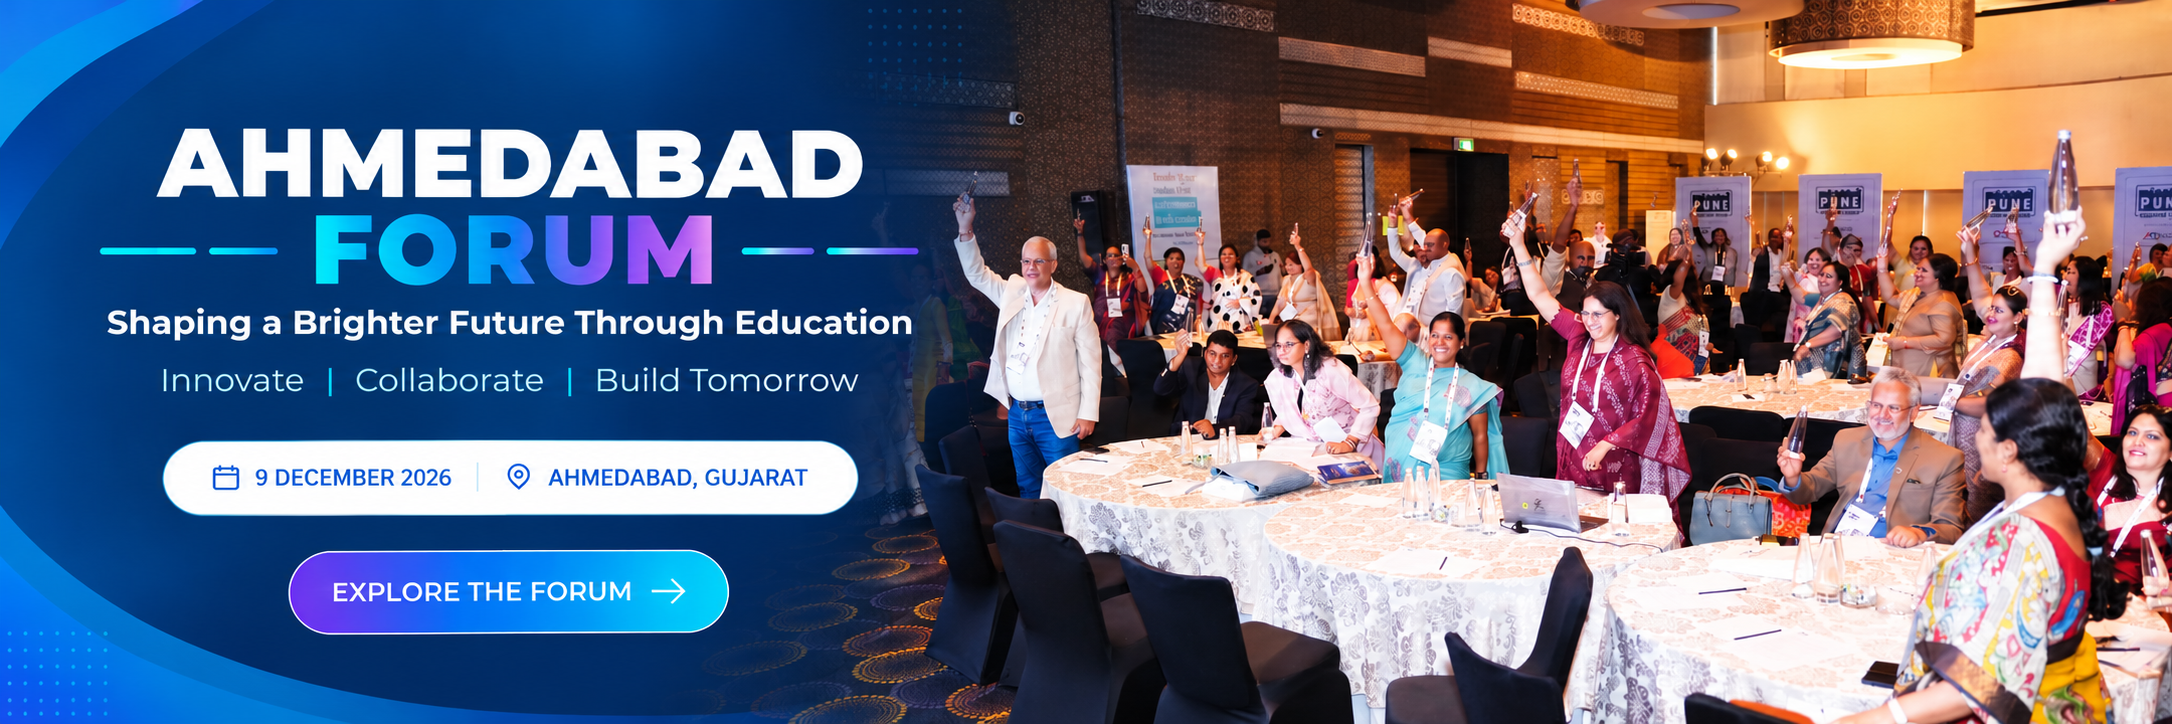
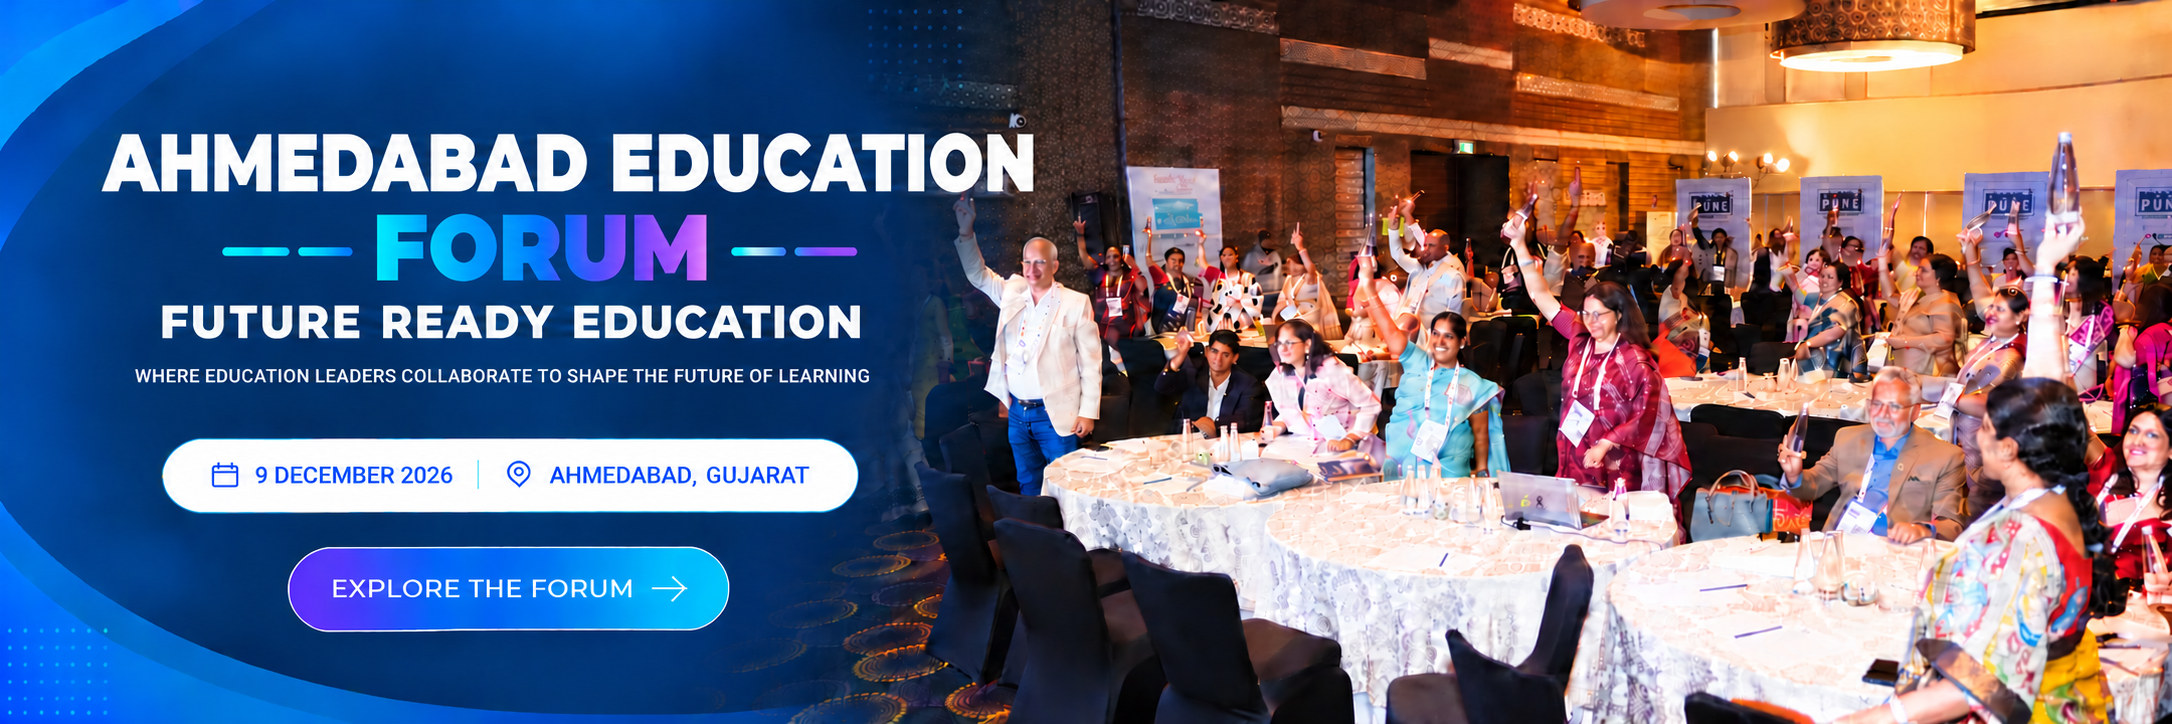
changes_1

diff --git a/index.html b/index.html
@@ -29,8 +29,9 @@
   </div>
 </header>
 <main id="main"><section class="hero hero-artwork" id="top" aria-labelledby="hero-title">
-  <h1 class="visually-hidden" id="hero-title">Ahmedabad Forum — Shaping a Brighter Future Through Education</h1>
+  <h1 class="visually-hidden" id="hero-title">Ahmedabad Education Forum — Future Ready Education — Where Education Leaders Collaborate to Shape the Future of Learning</h1>
   <img class="hero-artwork-image" src="images/ahmedabad-forum-hero.png" width="2172" height="724" fetchpriority="high" alt="Ahmedabad Forum banner showing education leaders gathered at a forum event">
+  <img class="hero-artwork-image hero-original-photo" src="images/ahmedabad-forum-original.png" width="2172" height="724" alt="" aria-hidden="true">
   <div class="hero-date-correction" aria-label="Event date and location">
     <span><svg aria-hidden="true" viewBox="0 0 24 24"><rect x="3" y="5" width="18" height="16" rx="2"/><path d="M7 3v4M17 3v4M3 10h18"/></svg>9 DECEMBER 2026</span>
     <i aria-hidden="true"></i>
@@ -83,7 +84,7 @@
           <p class="section-label">About the forum</p>
           <h2>A curated forum for education&rsquo;s decision-makers</h2>
           <div class="coral-rule" aria-hidden="true"></div>
-          <p>Ahmedabad Education Forum is a thoughtfully curated leadership conference designed for decision-makers across the education ecosystem.</p>
+          <p>Pune Education Forum is a thoughtfully curated leadership conference designed for decision-makers across the education ecosystem.</p>
           <p>Unlike conventional conferences built around one-way presentations, this forum places collaboration, problem-solving, and strategic dialogue at the centre of the experience.</p>
           <p class="pull-quote">Meaningful conversations. Practical pathways. Future-ready institutions.</p>
         </div>
@@ -150,7 +151,7 @@
         </ol>
       </div>
     </section>
-<section class="section speakers" id="speakers"><div class="shell"><div class="split-head"><div><p class="section-label">The voices shaping tomorrow</p><h2>Our Past<br>Distinguished Panellists<span class="blue">.</span></h2></div><p class="demo-note">A selection of distinguished panellists<br>from our previous forum gatherings.</p></div><div class="speaker-rail"><div class="speaker-grid" id="speaker-grid"></div></div></div></section>
+<section class="section speakers" id="speakers"><div class="shell"><div class="split-head"><div><p class="section-label">The voices shaping tomorrow</p><h2>Past Distinguished<br>Panellists<span class="blue">.</span></h2></div><p class="demo-note">Education leaders shaping the future of learning.</p></div><div class="speaker-rail"><div class="speaker-grid" id="speaker-grid"></div></div></div></section>
 <section class="audience section" id="audience">
       <div class="shell reveal">
         <div class="audience-intro">
@@ -165,11 +166,6 @@
           <li>Curriculum and Assessment Leaders</li><li>Faculty Development Leaders</li><li>Innovation and Transformation Leaders</li>
           <li>Education Policymakers</li><li>Education Group Leadership Teams</li>
         </ul>
-        <div class="invitation-note">
-          <strong>Curated invitations</strong>
-          <p>Invitations are focused on progressive institutions, particularly schools with strong academic outcomes and established fee structures &mdash; ensuring every conversation happens at a meaningful, peer-to-peer level.</p>
-          <span>Invitation only</span>
-        </div>
       </div>
     </section>
 <section class="roundtable section" id="roundtable">
@@ -223,12 +219,12 @@
       <div class="shell reveal">
         <div class="section-head split-head">
           <div><p class="section-label">The venue</p><h2>Novotel Ahmedabad</h2></div>
-          <p>A premium setting at ISKCON Cross Roads on S.G. Highway, with convenient access across Ahmedabad. This proposed venue is subject to final event confirmation.</p>
+          <p>A premium setting at ISKCON Cross Roads on S.G. Highway, with convenient access across Ahmedabad.</p>
         </div>
         <div class="venue-panel">
           <div class="venue-map">
-            <iframe title="Map showing the proposed Novotel Ahmedabad venue on S.G. Highway" src="https://maps.google.com/maps?q=Novotel%20Ahmedabad%2C%20ISKCON%20Cross%20Roads%2C%20S.G.%20Highway%2C%20Ahmedabad%2C%20Gujarat&amp;z=14&amp;output=embed" loading="lazy" referrerpolicy="no-referrer-when-downgrade"></iframe>
-            <a class="venue-map-link" href="https://www.google.com/maps/search/?api=1&amp;query=Novotel+Ahmedabad%2C+ISKCON+Cross+Roads%2C+S.G.+Highway%2C+Ahmedabad%2C+Gujarat" target="_blank" rel="noopener noreferrer" aria-label="Open proposed Novotel Ahmedabad in Google Maps">
+            <iframe title="Map showing Novotel Ahmedabad on S.G. Highway" src="https://maps.google.com/maps?q=Novotel%20Ahmedabad%2C%20ISKCON%20Cross%20Roads%2C%20S.G.%20Highway%2C%20Ahmedabad%2C%20Gujarat&amp;z=14&amp;output=embed" loading="lazy" referrerpolicy="no-referrer-when-downgrade"></iframe>
+            <a class="venue-map-link" href="https://www.google.com/maps/search/?api=1&amp;query=Novotel+Ahmedabad%2C+ISKCON+Cross+Roads%2C+S.G.+Highway%2C+Ahmedabad%2C+Gujarat" target="_blank" rel="noopener noreferrer" aria-label="Open Novotel Ahmedabad in Google Maps">
               <span class="venue-map-pin" aria-hidden="true"><svg viewBox="0 0 24 24"><path d="M20 10c0 5-8 11-8 11S4 15 4 10a8 8 0 1 1 16 0Z"/><circle cx="12" cy="10" r="2.5"/></svg></span>
               <span class="venue-map-label">Open interactive map <svg aria-hidden="true" viewBox="0 0 24 24"><path d="M7 17 17 7M8 7h9v9"/></svg></span>
             </a>
@@ -236,7 +232,7 @@
           </div>
           <div class="venue-details">
             <div class="venue-title">
-              <p>Proposed venue · Ahmedabad</p>
+              <p>Ahmedabad <span aria-hidden="true">&middot;</span> Gujarat</p>
               <h3>Novotel Ahmedabad <span aria-hidden="true">&middot;</span> S.G. Highway</h3>
             </div>
             <p class="venue-location">
@@ -263,14 +259,14 @@
         </div>
         <div class="venue-notes">
           <article><span>01</span><h3>Effortless accessibility</h3><p>A location on S.G. Highway with access to Ahmedabad&rsquo;s airport, railway station, and city network.</p></article>
-          <article><span>02</span><h3>A setting built for dialogue</h3><p>Conference and roundtable spaces with premium hospitality &mdash; an environment that encourages focused, distraction-free leadership conversation.</p></article>
+          <article><span>02</span><h3>A setting built for dialogue</h3><p>Purpose-designed conference and roundtable spaces with five-star hospitality &mdash; an environment that encourages focused, distraction-free leadership conversation.</p></article>
           <article><span>03</span><h3>A networking environment</h3><p>Elegant lounges, curated dining, and breakout spaces create natural moments for peer-level networking before, between, and after sessions.</p></article>
         </div>
       </div>
     </section>
 <section class="partners section" id="partners" aria-label="Our partners">
       <div class="shell reveal">
-        <p class="section-label centred">Past partners</p>
+        <p class="section-label centred">Our Past partners</p>
         <div class="partner-grid" aria-label="Ahmedabad Education Forum partners">
           <article class="partner-item">
             <span class="partner-logo partner-logo-grok" role="img" aria-label="Grok Learning"><img src="assets/partners/grok-learning-logo.jpeg" alt="" loading="lazy" decoding="async"></span>
@@ -307,13 +303,13 @@
         </div>
       </div>
     </section>
-<section class="contact" id="contact"><div class="shell contact-grid"><div><p class="section-label">Be part of the conversation</p><h2>Join the leadership<br>conversation<span>.</span></h2><p>Seats are limited to preserve the quality of dialogue. Connect with our team or request your invitation.</p><a class="button button-white" href="mailto:connect@puneeducationforum.in?subject=Ahmedabad%20Education%20Forum%20%E2%80%94%20Invitation%20request">Request an invitation <span aria-hidden="true">↗</span></a></div><div class="contact-details"><div class="contact-date"><svg viewBox="0 0 24 24" aria-hidden="true"><rect x="3" y="5" width="18" height="16" rx="2"/><path d="M7 3v4M17 3v4M3 10h18"/></svg><span>9 December 2026<br><small>Proposed: Novotel Ahmedabad</small></span></div><a href="mailto:connect@puneeducationforum.in"><small>Email the forum</small><strong>connect@puneeducationforum.in</strong><span>Invitations, participation and event queries ↗</span></a><a href="tel:+919217110704"><small>Speak with our team</small><strong>+91 92171 10704</strong><span>Tap to call for direct assistance ↗</span></a></div></div></section></main><footer class="site-footer">
+<section class="contact" id="contact"><div class="shell contact-grid"><div><p class="section-label">Be part of the conversation</p><h2>Join the leadership<br>conversation<span>.</span></h2><p>Seats are limited to preserve the quality of dialogue. Connect with our team to learn more.</p></div><div class="contact-details"><div class="contact-date"><svg viewBox="0 0 24 24" aria-hidden="true"><rect x="3" y="5" width="18" height="16" rx="2"/><path d="M7 3v4M17 3v4M3 10h18"/></svg><span>9 December 2026<br><small>Novotel Ahmedabad</small></span></div><a href="mailto:connect@puneeducationforum.in"><small>Email the forum</small><strong>connect@puneeducationforum.in</strong><span>Invitations, participation and event queries ↗</span></a><a href="tel:+919217110704"><small>Speak with our team</small><strong>+91 92171 10704</strong><span>Tap to call for direct assistance ↗</span></a></div></div></section></main><footer class="site-footer">
     <div class="shell footer-grid">
       <div><a class="brand footer-brand brand-official" href="#top" aria-label="Ahmedabad Education Forum home"><span class="official-logo logo-footer"><img src="images/logo.jpg" alt="Ahmedabad Education Forum"></span></a><p>An invitation-only leadership gathering bringing together progressive education leaders to shape the future of learning.</p></div>
       <div><h2>Explore</h2><a href="#about">About the forum</a><a href="#unique">What&rsquo;s unique</a><a href="#audience">Who should attend</a></div>
       <div><h2>Forum</h2><a href="#roundtable">Leadership roundtables</a><a href="#takeaways">Key takeaways</a><a href="#partners">Supporting partners</a><a href="#contact">Contact us</a></div>
-      <div><h2>Get in touch</h2><p>9 December 2026<br>Proposed: Novotel Ahmedabad</p><a href="mailto:connect@puneeducationforum.in">connect@puneeducationforum.in</a><a href="tel:+919217110704">+91 92171 10704</a></div>
+      <div><h2>Get in touch</h2><p>9 December 2026<br>Novotel Ahmedabad</p><a href="mailto:connect@puneeducationforum.in">connect@puneeducationforum.in</a><a href="tel:+919217110704">+91 92171 10704</a></div>
     </div>
-    <div class="shell copyright"><span>&copy; 2026 Ahmedabad Education Forum. All rights reserved.</span><span>Designed for leaders shaping the future of education.</span></div>
+    <div class="shell copyright"><span>&copy; 2026 Pune Education Forum. All rights reserved.</span><span>Designed for leaders shaping the future of education.</span></div>
   </footer>
 <dialog class="lightbox" aria-label="Previous event photo viewer"><div class="lightbox-toolbar"><span id="photo-counter"></span><button type="button" data-close aria-label="Close image">×</button></div><img alt=""><div class="lightbox-bottom"><button type="button" data-prev aria-label="Previous image">←</button><p></p><button type="button" data-next aria-label="Next image">→</button></div></dialog></body></html>

diff --git a/css/style.css b/css/style.css
@@ -1523,3 +1523,59 @@ html,body{max-width:100%;overflow-x:hidden}
 .open-list li:before,.audience-list li:before,.gallery-grid button>span:after{content:'•';font-family:Arial,sans-serif;font-weight:800}
 .roundtable-copy li:before{content:'•';font-family:Arial,sans-serif;font-weight:800}
 
+/* The following roundtable section provides the spacing after the audience list. */
+.audience.section{padding-bottom:0}
+
+/* Restore the original event photograph while retaining the updated banner text. */
+.hero-original-photo{clip-path:polygon(48% 0,100% 0,100% 100%,42% 100%,42% 40%,44% 28%,48% 28%);pointer-events:none}
+
+/* Production responsive safeguards. */
+img,iframe{max-width:100%}
+.site-header .site-nav a,.menu-toggle,.carousel-arrow,.carousel-play,.gallery-grid button{touch-action:manipulation}
+.contact-details a,.footer-grid a{overflow-wrap:anywhere}
+
+@media(max-width:850px){
+  .menu-toggle{display:block;min-width:44px;min-height:44px;flex:0 0 44px;color:#0747bd}
+  .site-header .site-nav{max-height:calc(100dvh - 82px);overflow-y:auto;overscroll-behavior:contain}
+  .site-header .site-nav a{display:flex;align-items:center;min-height:48px}
+}
+
+@media(max-width:767px){
+  h2{font-size:clamp(30px,8.5vw,42px)}
+  .section{padding-block:clamp(54px,10vw,72px)}
+  .hero.hero-artwork{height:clamp(260px,66.67vw,360px);aspect-ratio:auto;border-radius:0}
+  .hero-artwork-image{width:auto;min-width:0;max-width:none;height:100%;object-fit:contain;object-position:left center}
+  .hero-artwork-cta{top:75%;left:12.5%;width:30%;height:13%}
+  .carousel-arrow{width:44px;height:44px}
+  .carousel-play{min-height:44px;padding-inline:14px}
+  .carousel-dot{width:12px;height:12px;flex-basis:12px}
+  .brief-grid article,.numbered-list article,.audience-list li,.takeaways ol li{min-width:0}
+  .roundtable-grid .media-frame img{height:clamp(280px,72vw,420px)}
+  .contact-grid>div:first-child,.contact-details{min-width:0}
+}
+
+@media(max-width:480px){
+  .event-header-top .header-inner{height:72px}
+  .header-event-copy strong{font-size:clamp(15px,4.6vw,18px)}
+  .hero.hero-artwork{height:clamp(210px,62vw,300px)}
+  .hero-artwork-cta{left:14%;width:60%;top:75%;height:13%}
+  .carousel-frame{height:min(62vh,420px);min-height:260px}
+  .carousel-controls{align-items:center}
+  .gallery-grid{grid-template-columns:1fr}
+  .gallery-grid button:first-child{grid-column:auto}
+  .gallery-grid img,.gallery-grid button:first-child img,.gallery-grid button:nth-child(6) img{height:220px}
+  .gallery-grid button>span{font-size:11px;padding:32px 14px 14px}
+  .partner-item{min-height:145px}
+  .contact h2{font-size:clamp(31px,10vw,40px)}
+  .contact-details>a{min-height:72px}
+  .lightbox{width:calc(100vw - 16px);padding:8px}
+  .lightbox-toolbar,.lightbox-bottom{gap:8px}
+  .lightbox button{width:44px;height:44px}
+}
+
+@media(max-width:600px){
+  .countdown{width:100%;gap:0;justify-content:space-between}
+  .countdown p{min-width:0;flex:1 1 0}
+  .countdown i{flex:0 0 auto;margin-inline:2px}
+}
+
